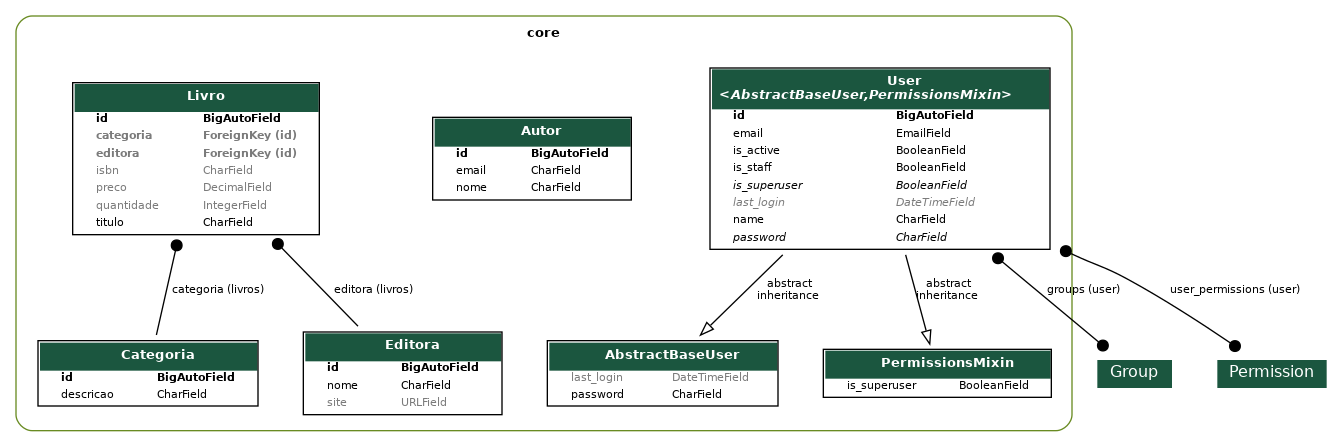
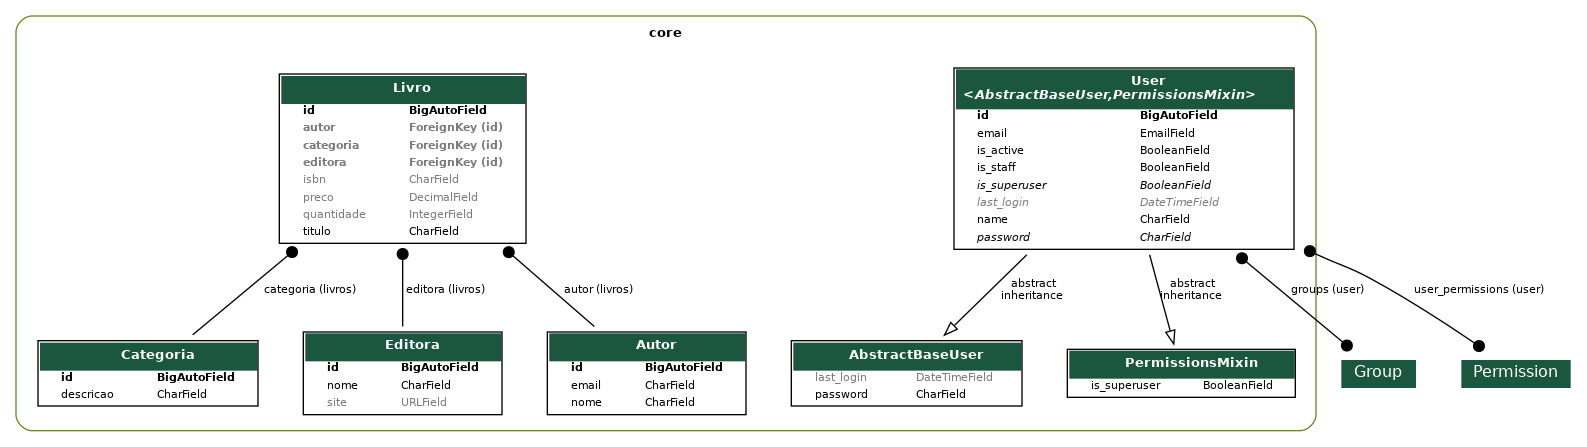
livro com apenas um autor

diff --git a/core/models/livro.py b/core/models/livro.py
@@ -2,14 +2,16 @@ from django.db import models
 
 from .categoria import Categoria
 from .editora import Editora
+from .autor import Autor
 
 class Livro(models.Model):
-    titulo = models.CharField(max_length=255)
-    isbn = models.CharField(max_length=32, null=True, blank=True)
+    titulo = models.CharField(max_length=255, verbose_name="Título")
+    isbn = models.CharField(max_length=32, null=True, blank=True, verbose_name="ISBN")
     quantidade = models.IntegerField(default=0,  null=True, blank=True)
-    preco = models.DecimalField(max_digits=7, decimal_places=2, default=0, null=True, blank=True)
+    preco = models.DecimalField(max_digits=7, decimal_places=2, default=0, null=True, blank=True, verbose_name="Preço")
     categoria = models.ForeignKey(Categoria, on_delete=models.PROTECT, related_name="livros", blank=True, null=True)
     editora = models.ForeignKey(Editora, on_delete=models.PROTECT, related_name="livros", blank=True, null=True)
+    autor = models.ForeignKey(Autor, on_delete=models.PROTECT, related_name="livros", blank=True, null=True)
 
     def __str__(self):
         return f"({self.id}) {self.titulo} ({self.quantidade})"

diff --git a/core/migrations/0009_alter_livro_isbn_alter_livro_preco_and_more.py b/core/migrations/0009_alter_livro_isbn_alter_livro_preco_and_more.py
@@ -1,0 +1,30 @@
+# Generated by Django 5.0.2 on 2024-08-12 17:10
+
+from django.db import migrations, models
+
+
+class Migration(migrations.Migration):
+
+    dependencies = [
+        ("core", "0008_livro_autor"),
+    ]
+
+    operations = [
+        migrations.AlterField(
+            model_name="livro",
+            name="isbn",
+            field=models.CharField(blank=True, max_length=32, null=True, verbose_name="ISBN"),
+        ),
+        migrations.AlterField(
+            model_name="livro",
+            name="preco",
+            field=models.DecimalField(
+                blank=True, decimal_places=2, default=0, max_digits=7, null=True, verbose_name="Preço"
+            ),
+        ),
+        migrations.AlterField(
+            model_name="livro",
+            name="titulo",
+            field=models.CharField(max_length=255, verbose_name="Título"),
+        ),
+    ]

diff --git a/core/migrations/0008_livro_autor.py b/core/migrations/0008_livro_autor.py
@@ -1,0 +1,25 @@
+# Generated by Django 5.0.2 on 2024-08-12 17:05
+
+import django.db.models.deletion
+from django.db import migrations, models
+
+
+class Migration(migrations.Migration):
+
+    dependencies = [
+        ("core", "0007_livro_editora_alter_livro_categoria"),
+    ]
+
+    operations = [
+        migrations.AddField(
+            model_name="livro",
+            name="autor",
+            field=models.ForeignKey(
+                blank=True,
+                null=True,
+                on_delete=django.db.models.deletion.PROTECT,
+                related_name="livros",
+                to="core.autor",
+            ),
+        ),
+    ]

diff --git a/core/models/autor.py b/core/models/autor.py
@@ -6,3 +6,7 @@ class Autor(models.Model):
 
     def __str__(self):
         return self.nome
+    
+    class Meta:
+        verbose_name = "Autor"
+        verbose_name_plural = "Autores"    
